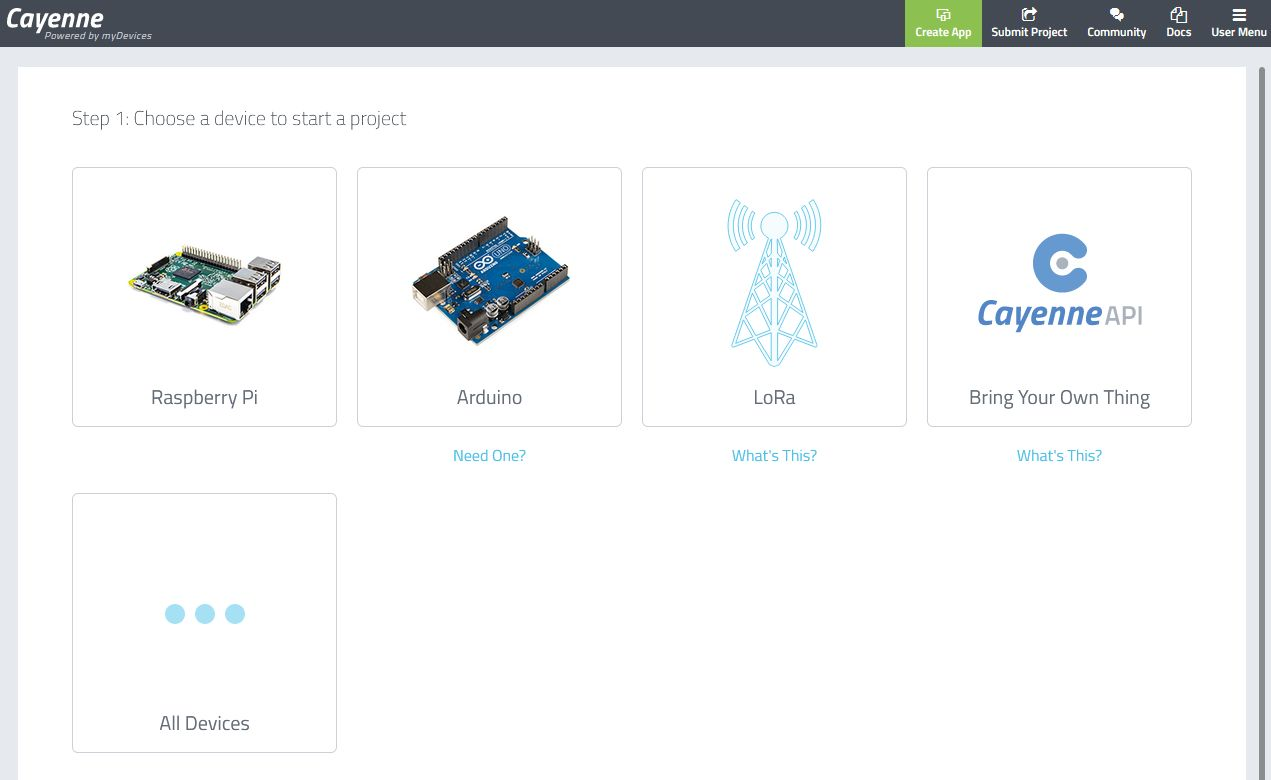
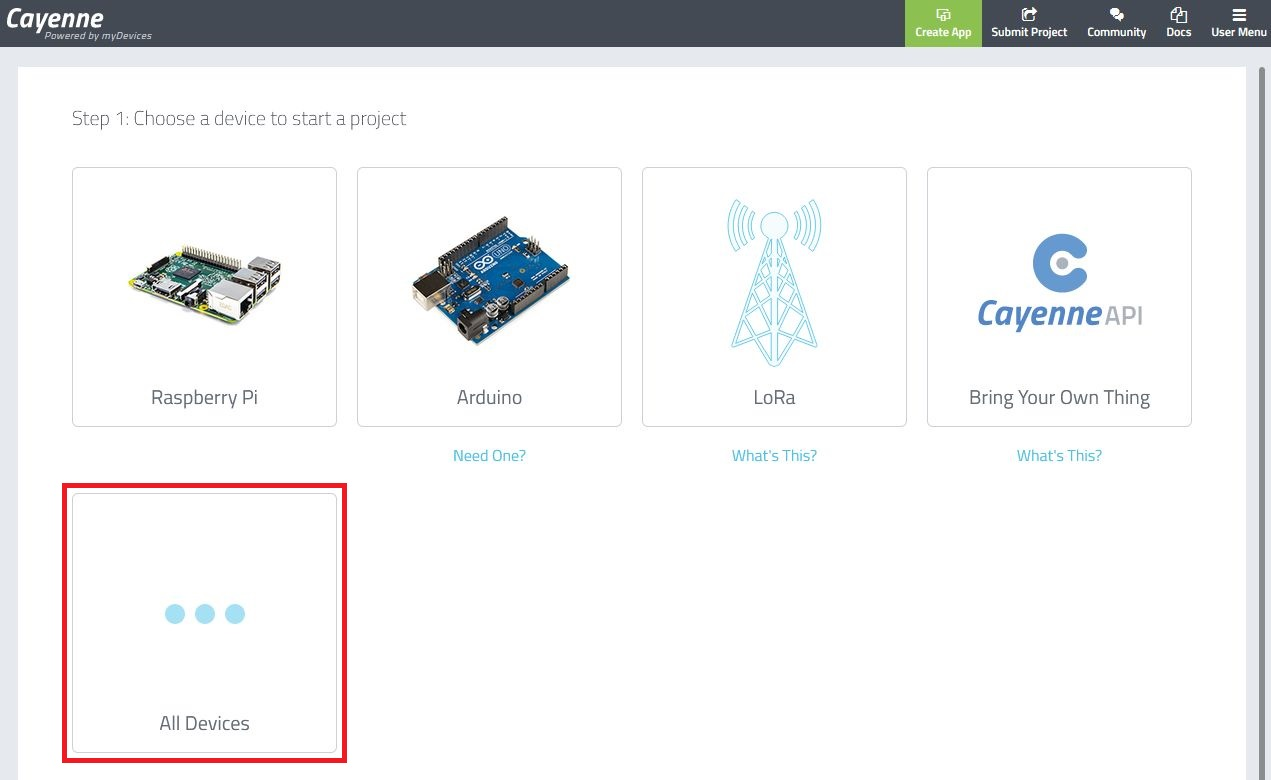
Updated instructions

Changed region(s): [[0.0307, 0.6154, 0.2762, 0.9846]]

diff --git a/Readme.md b/Readme.md
@@ -321,7 +321,7 @@ Then click on 'Register' bottom right of the screen;
 <br><br>
 
 
-Note that the device EUI needs to be unique and we will need it later. You can enter any number you like, its in hexadecimal, so 00 11 AA BB CC DD EE FF would also be acceptable, but if the number already exists you will get a warning.  
+Note that the Device EUI needs to be unique and we will need it later. You can enter any number you like, its in hexadecimal, so 00 11 AA BB CC DD EE FF would also be acceptable, but if the number already exists you will get a warning.  
 
 <br><br>
 <img src="/Pictures/14A.jpg" width="450"/>
@@ -384,6 +384,12 @@ you need to change is so that the relevant line in the configuration.h file look
 
 DEVADDR = 0x112233AA;  
 
+This **DEVICE OVERVIEW** screen also has the Device EUI displayed on it, we will need it later. Select to copy it into the clipboard as for the previous keys and paste it into a text editor or similar and save it for later. You could even add it the the configuration file like this;
+
+//00 11 22 33 44 55 66 77
+
+The Arduino IDE will see the //characters as a comment and ignore the rest of the line.  
+
 You have completed your node configuration. You can now load the trackewr program and test it.
 
 
@@ -397,58 +403,158 @@ file load the TTN_GPS_Tracker program onto your board. There are some options th
 
 With the tracker program loaded and power applied to the tracker, observe the startup messages in the Arduino IDE serial monitor, you should see something like this;
 
+
+    TTN_GPS_TRACKER
+    101018
+    Stuart Robinson
+    
+    Waiting for Startup GPS Fix
+
+
 Note that the program has stopped waiting for the GPS to get a fix, and the LED is on. This wait is by design, we do not want the tracker sending erroneous GPS information if it is not working properly. With the GPS outside with a good view of the sky the GPS should get a fix, the LED will go off and the serial monitor should report something like this;
 
-If there is a gateway within reach of the tracker you should then see a completion message on the serial monitor. 
 
-To see if the location data from your programmed tracker is getting into  the Things Network, login to your TTN account and goto the console. Select
-applications and then (for this example) select the loratracker\_test\_application by clicking on the coloured button;
+    TTN_GPS_TRACKER
+    101018
+    Stuart Robinson
+    
+    Waiting for Startup GPS Fix
+    Waiting for GPS Fix - Have GPS Fix
+    Packet queued
+    401515: EV_TXCOMPLETE
 
-You should see this screen;
+
+
+**If there is a gateway within reach of the tracker you should then see a completion message on the serial monitor ?** 
+
+To see if the location data from your tracker is getting into  the Things Network, login to your TTN account and goto the console. Select
+applications and then (for this example) select the TTN\_GPS_Tracker\_application, you should see this screen;
+
+<br><br>
+<img src="/Pictures/25.jpg" width="450"/>
+<br><br>
+
 
 Click on 'Data' on the top right of the window and you should see the
-Application data packets arriving;
+Application data packets arriving, click on a line to expand and show the data for a packet;
 
-The payload is displayed in hexadecimal. 0X4C is ASCII 'L' and 0x6F is
-ASCII 'o' etc.
 
-### Frame Counter
-
-Each packet\\payload that the node sends has a frame counter and the TTN
-network keeps track of them. If for example your node had sent 20
-packets\\payloads (frame counters 0-19) and you restart your node then
-the TTN network will ignore the packets until the frame counter reaches
-20, then it will continue to display the payloads in the console again.
-
-This behaviour can give the impression that your node is not working.
-You can disable this beahviour for testing purposes, by going to the
-Application overview screen, selecting 'Devices' then select the device
-to configure and then from the 'Device Overview'
-
-And then select 'Settings' on the top right.
-
-At the bottom of the screen of device settings you will see this box,
-'frame counter settings'
-
-You can untick this box, and when the node resets the frame counter will
-start from zero and the packets\\payloads will not now be rejected. This
-is OK when testing a node, but do not leave it permanently set.
-
+<br><br>
+<img src="/Pictures/25A.jpg" width="450"/>
+<br><br>
 
 
 
 ##Create a Cayenne Account
 
 
-Goto http://www.mydevices.com\
+Goto http://www.mydevices.com\ and select 'Sign up for Free'
 
-##TTN\_GPS\_Tracker program -- Display option
+<br><br>
+<img src="/Pictures/26.jpg" width="450"/>
+<br><br>
 
 
-Note that the TTN\_GPS\_Tracker program has the option to display
-information on a local display, either a 20x4 LCD display or a SSD1306
-OLED, this option is turned off by default because of this line in the
-configuration file;
+provide the details to create your account;
+
+
+<br><br>
+<img src="/Pictures/27.jpg" width="450"/>
+<br><br>
+
+Select 'All Devices'
+
+<br><br>
+<img src="/Pictures/29.jpg" width="450"/>
+<br><br>
+
+
+
+
+You should see the 'Devices and Widgets' screen, scroll down till you find the 'The Things Network'. and select it.
+
+<br><br>
+<img src="/Pictures/30.jpg" width="450"/>
+<br><br>
+
+
+On the next screen locate 'Cayenne LPP' and select it.
+
+<br><br>
+<img src="/Pictures/31.jpg" width="450"/>
+<br><br>
+
+
+In the next screen get the DevEUI we saved earlier and enter it in the DevEUI box, then select 'ADD Device'   
+
+
+<br><br>
+<img src="/Pictures/31A.jpg" width="450"/>
+<br><br>
+
+If you get a 'Conflict' Error then the DevEUI your using is not unique, you need to go back to the TTN console and select another. If all goes well you should see a blank dashboard;
+
+<br><br>
+<img src="/Pictures/31B.jpg" width="450"/>
+<br><br>
+
+Note the URL of this screen contains a number, highlighted in red, the number from the screen in this case is;
+
+9156d9e0-aaaa-11e8-9c33-7336b356aaaa 
+
+Your number will obviously be different. You need to copy this and save it, we need to enter it into the TTN console. 
+
+
+##Enable TTN Cayenne Integration
+
+Log back into your TTN console and go to Application overview and select 'Integrations' 
+
+<br><br>
+<img src="/Pictures/33.jpg" width="450"/>
+<br><br>
+
+Select 'Add Integration'
+
+<br><br>
+<img src="/Pictures/34.jpg" width="450"/>
+<br><br>
+
+Select 'Cayenne'
+
+<br><br>
+<img src="/Pictures/35.jpg" width="450"/>
+<br><br>
+
+For the 'Process ID' enter thr number copied from the Cayenne dashboard URL earlier, and click on 'default key' for the Access key. Then click on 'Add Integration'
+
+<br><br>
+<img src="/Pictures/36.jpg" width="450"/>
+<br><br>
+
+And you should see the Integration overview screen show a status of 'Running'
+
+<br><br>
+<img src="/Pictures/37.jpg" width="450"/>
+<br><br>
+
+Go back to the Cayenne dashboard and with in a few seconds of the packet being sent a map appears on the dashboard with the location of the tracker;
+
+<br><br>
+<img src="/Pictures/38.jpg" width="450"/>
+<br><br>
+
+To simulate the effect of a moving tracker I programmed the tracker to send a test series of location packets,  simulated a short
+
+
+<br><br>
+<img src="/Pictures/39.jpg" width="450"/>
+<br><br>
+
+
+## TTN\_GPS\_Tracker program -- Display option
+
+The TTN\_GPS\_Tracker program has the option to display
+information on a local display, via an I2C connection, either a 20x4 LCD display or a SSD1306 OLED , this option is turned off by default because of this line in the configuration file;
 
 //\#define Use\_Display
 
@@ -459,8 +565,32 @@ change the line into;
 \#define Use\_Display
 
 Do not enable the display option unless a display is actually attached
-and working.
+and working. The I2C displays are both 3.3V versions, the 20x4 LCD is connected to I2C via a PCF8574 I\O expander designed for driving the HD44780 controller on the LCD. 
 
-Stuart Robinson
 
-June 2018
+### Frame Counter
+
+Each packet\\payload that the node sends has a frame counter and the TTN
+network keeps track of them. If for example your node had sent 20
+packets\\payloads (frame counters 0-19) and you restart your node then
+the TTN network will ignore the packets until the frame counter reaches
+20, then it will continue to display the payloads in the console again.
+
+This behaviour can give the impression that your node is not working.
+You can disable this behviour for testing purposes, by going to the
+Application overview screen, selecting 'Devices' then select the device
+to configure and then from the 'Device Overview'
+
+And then select 'Settings' on the top right.
+
+At the bottom of the screen of device settings you will see this box,
+'frame counter settings'
+
+You can untick this box, and when the node resets the frame counter will
+start from zero and the packets or payloads will not now be rejected. This
+is OK when testing a node, but do not leave it permanently set.
+
+
+## Stuart Robinson
+
+## October 2018
